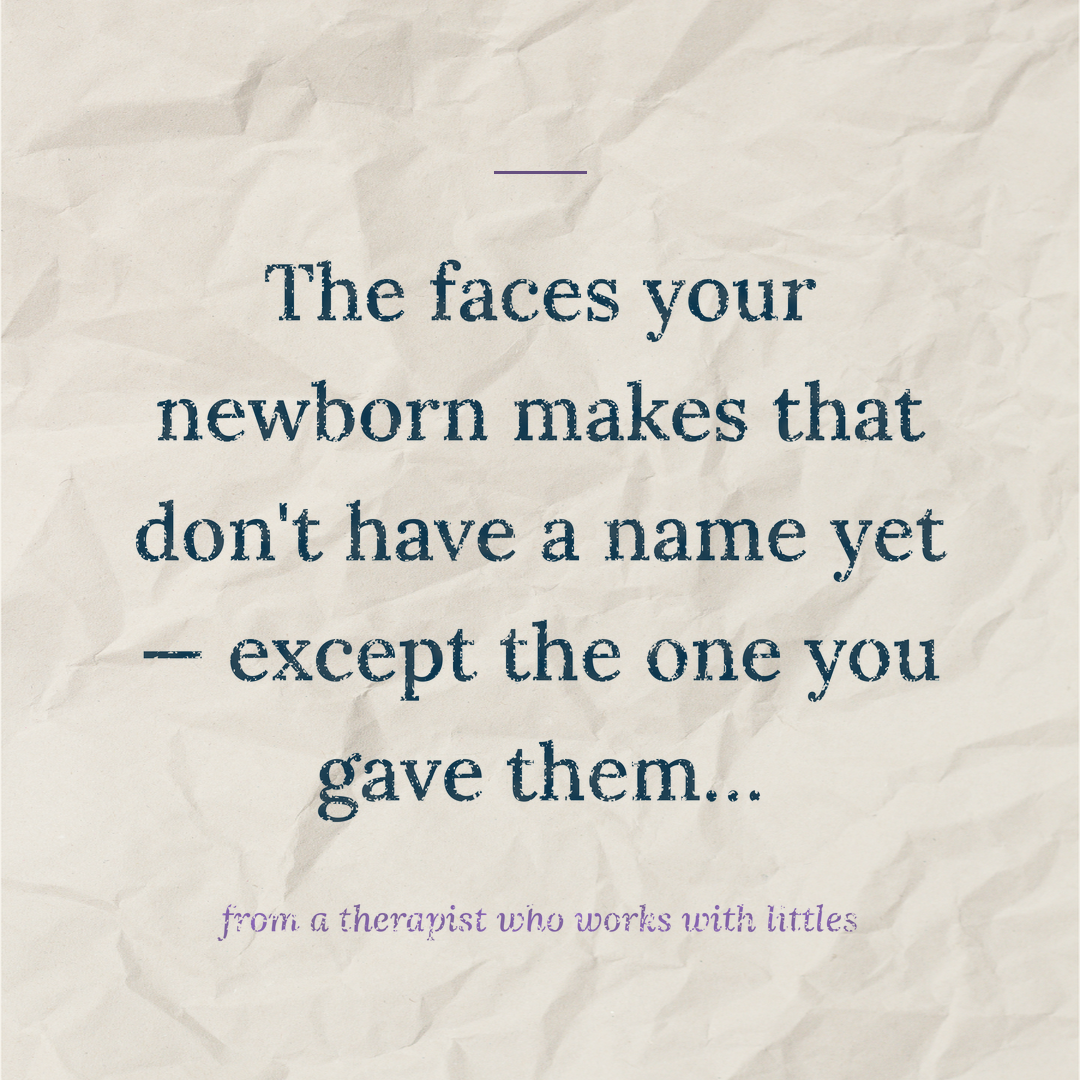
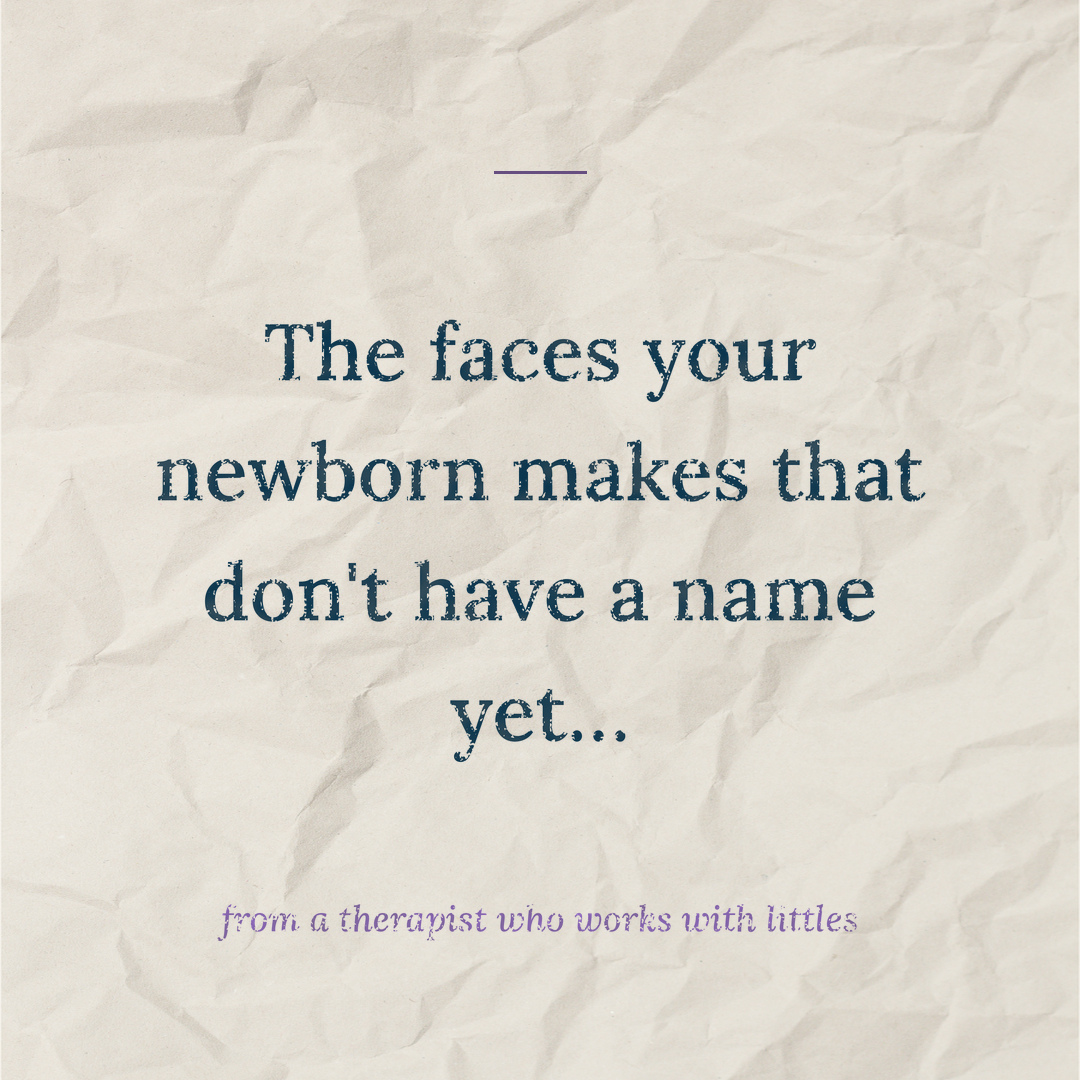
Add 52-faces-that-dont-have-a-name-yet (52 - Faces That Dont Have A Name Yet)

Changed region(s): [[0.1222, 0.2444, 0.8861, 0.7639], [0.1222, 0.5806, 0.1833, 0.6111]]

diff --git a/posts/52-faces-that-dont-have-a-name-yet/slides.md b/posts/52-faces-that-dont-have-a-name-yet/slides.md
@@ -3,7 +3,7 @@
 Format: carousel · bg keepsake (kraft-paper texture)
 
 ## Cover
-The faces your newborn makes that don't have a name yet — except the one you gave them…
+The faces your newborn makes that don't have a name yet…
 
 ## Items
 01  The pre-sneeze face nobody warned you about
@@ -13,6 +13,10 @@ The faces your newborn makes that don't have a name yet — except the one you g
 05  The one you catch mid-yawn and can't stop replaying
 
 ## Closer (follow)
-Follow for more faces only you'd recognize.
+Follow for more of these newborn moments and reminders
+
+REVISED 2026-08-16 per Ben's review: cover shortened (dropped "— except the one you gave them," which
+the item slides never actually paid off — Rule 8 fix); closer generalized per feedback memory
+drift-generic-closer-ctas.
 
 Render with render_keepsake_cover / render_keepsake_items_for_post / render_keepsake_follow, weight 550.
